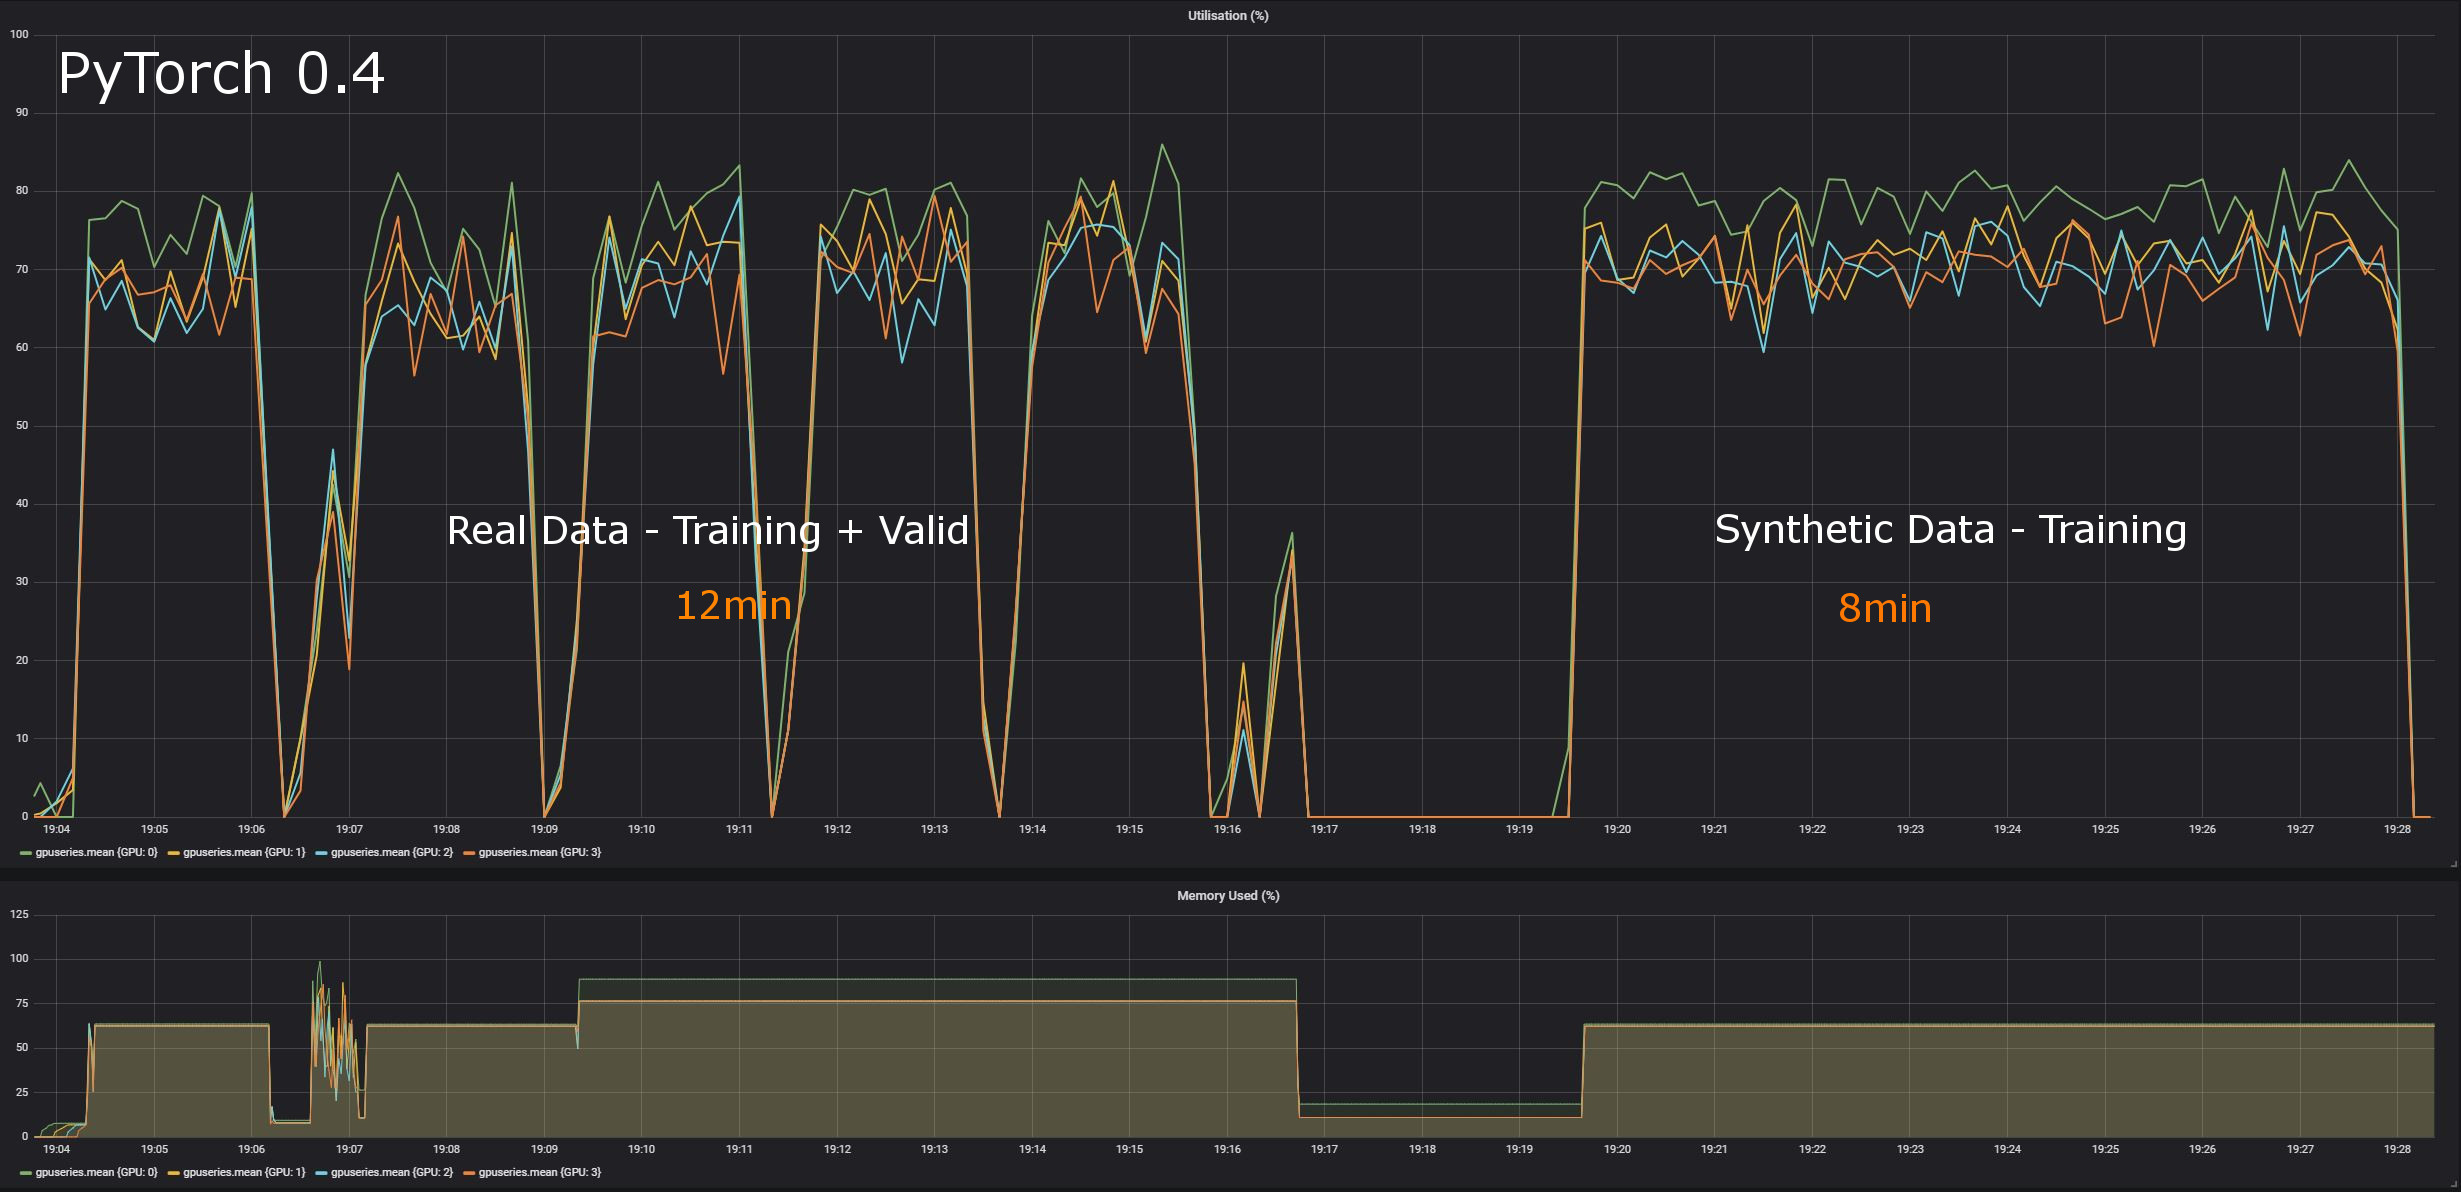
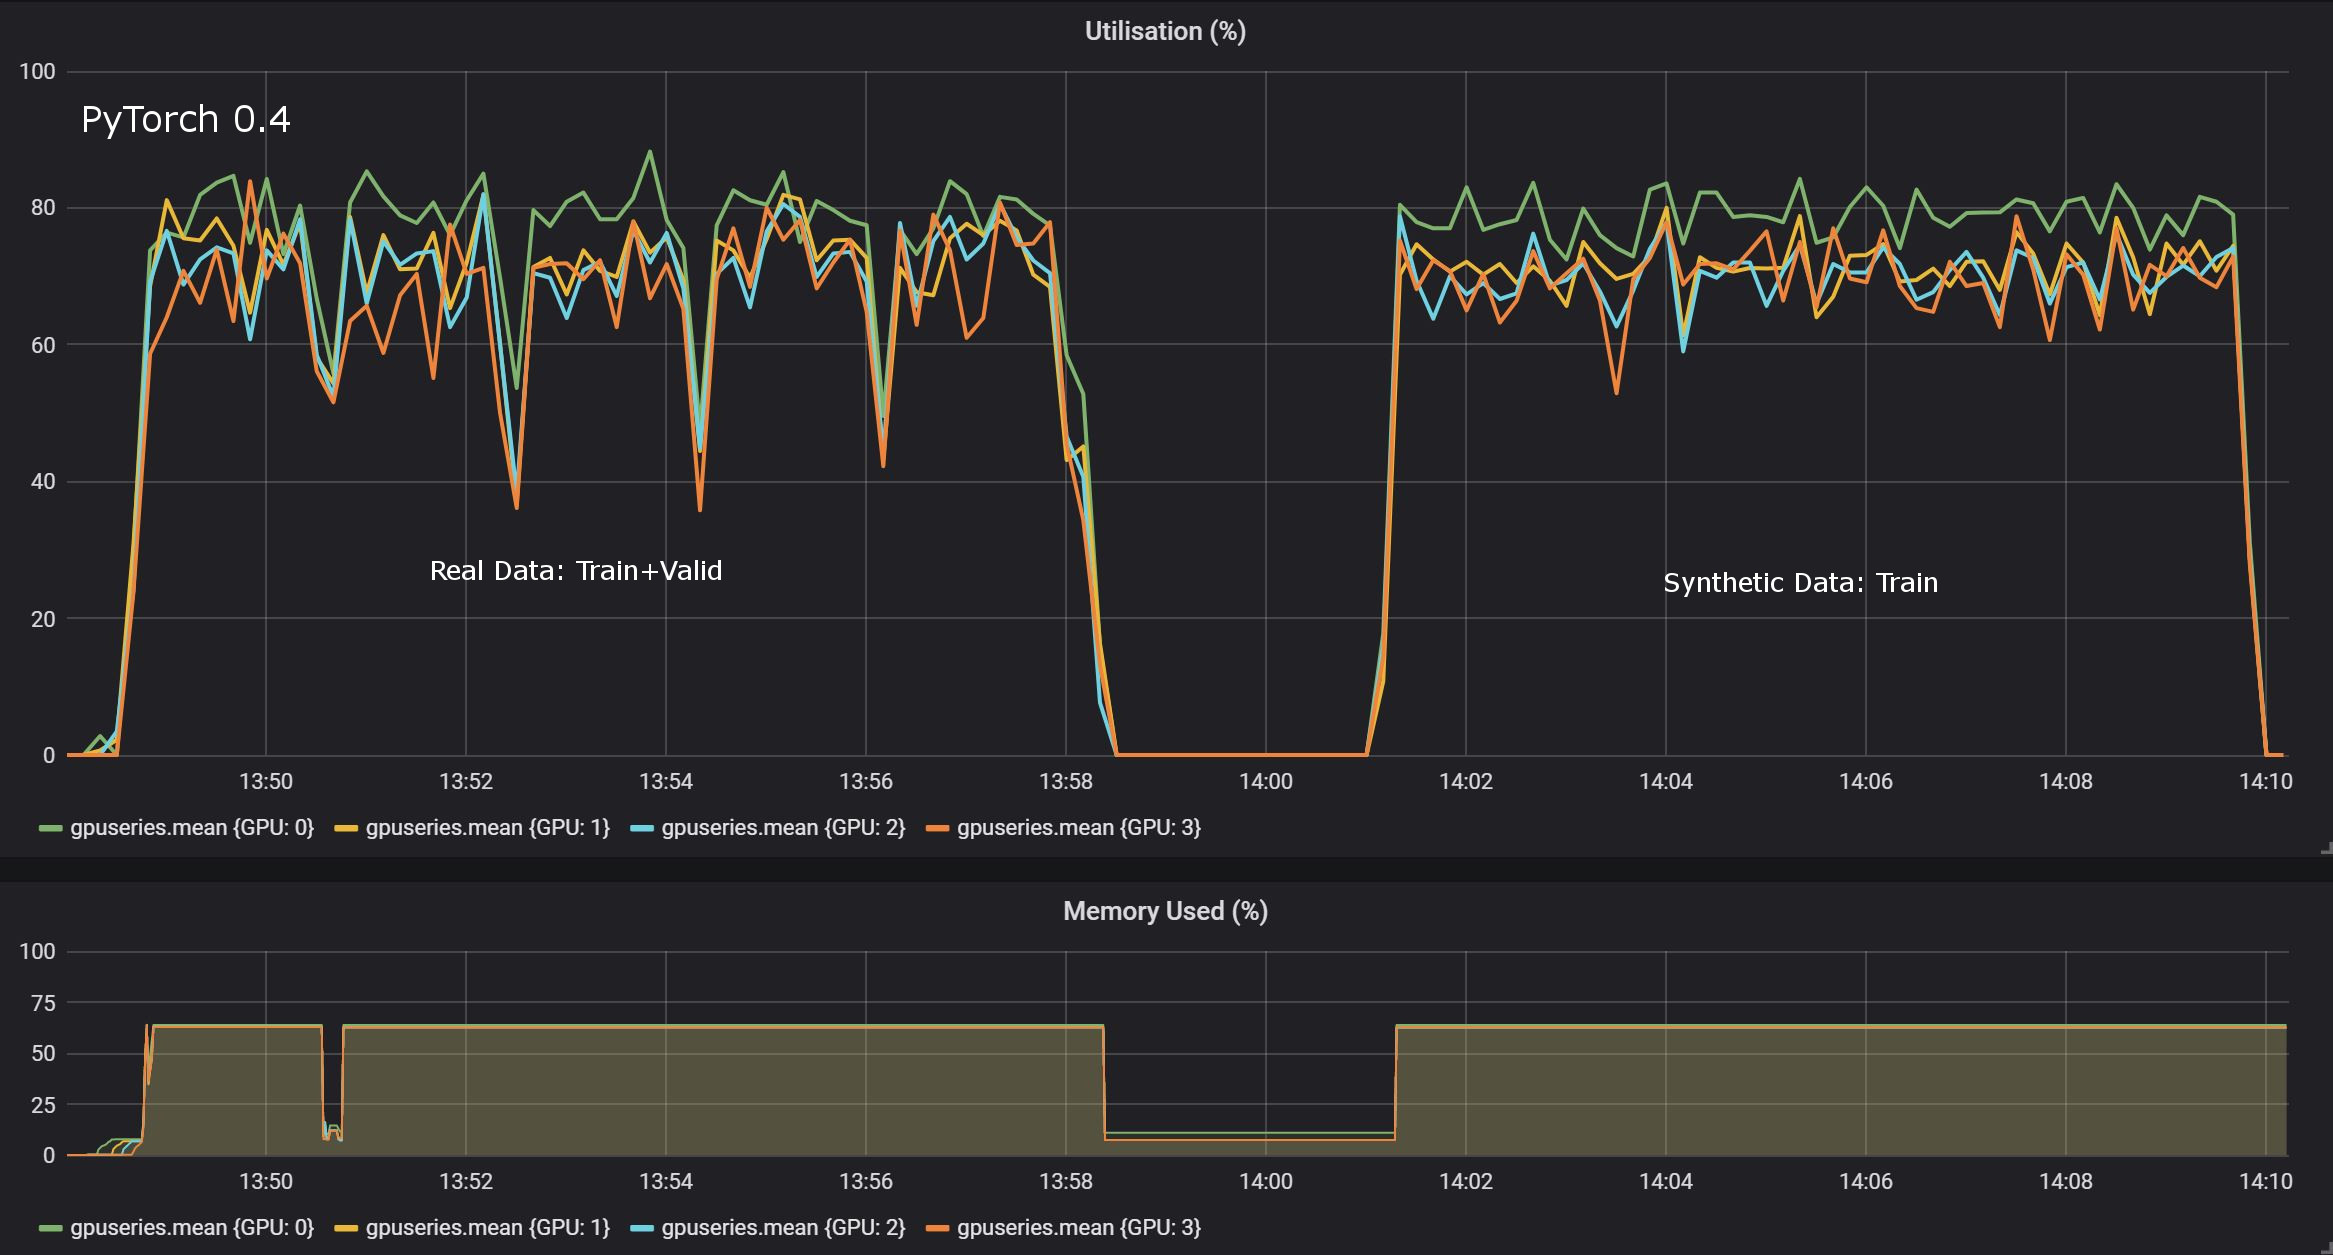
PyTorch ReRun
Optimised data-loading

diff --git a/README.md b/README.md
@@ -51,11 +51,11 @@ Input for this model is the standard [CIFAR-10 dataset](http://www.cs.toronto.ed
 
 | DL Library                                        | 1xV100/CUDA 9/CuDNN 7 | 4xV100/CUDA 9/CuDNN 7 |
 | -----------------------------------------------   | :------------------:  | :------------------:  |
-| [Pytorch](notebooks/PyTorch_MultiGPU.ipynb)       | 27min                 | 12min                 |
+| [Pytorch](notebooks/PyTorch_MultiGPU.ipynb)       | 27min                 | 10min                 |
 | [Keras(TF)](notebooks/Keras_TF_MultiGPU.ipynb)    | 38min                 | 18min                 |
 | [Tensorflow](notebooks/Tensorflow_MultiGPU.ipynb) | 33min                 | 22min                 |
 | [Chainer](notebooks/Chainer_MultiGPU.ipynb)       | 49min                 | 14min                 |
-| [MXNet(Gluon)](notebooks/Gluon_MultiGPU.ipynb)    | 27min                 | 8min                 |
+| [MXNet(Gluon)](notebooks/Gluon_MultiGPU.ipynb)    | 27min                 | 8min                  |
 
 **Train w/ synthetic-data in RAM**
 
